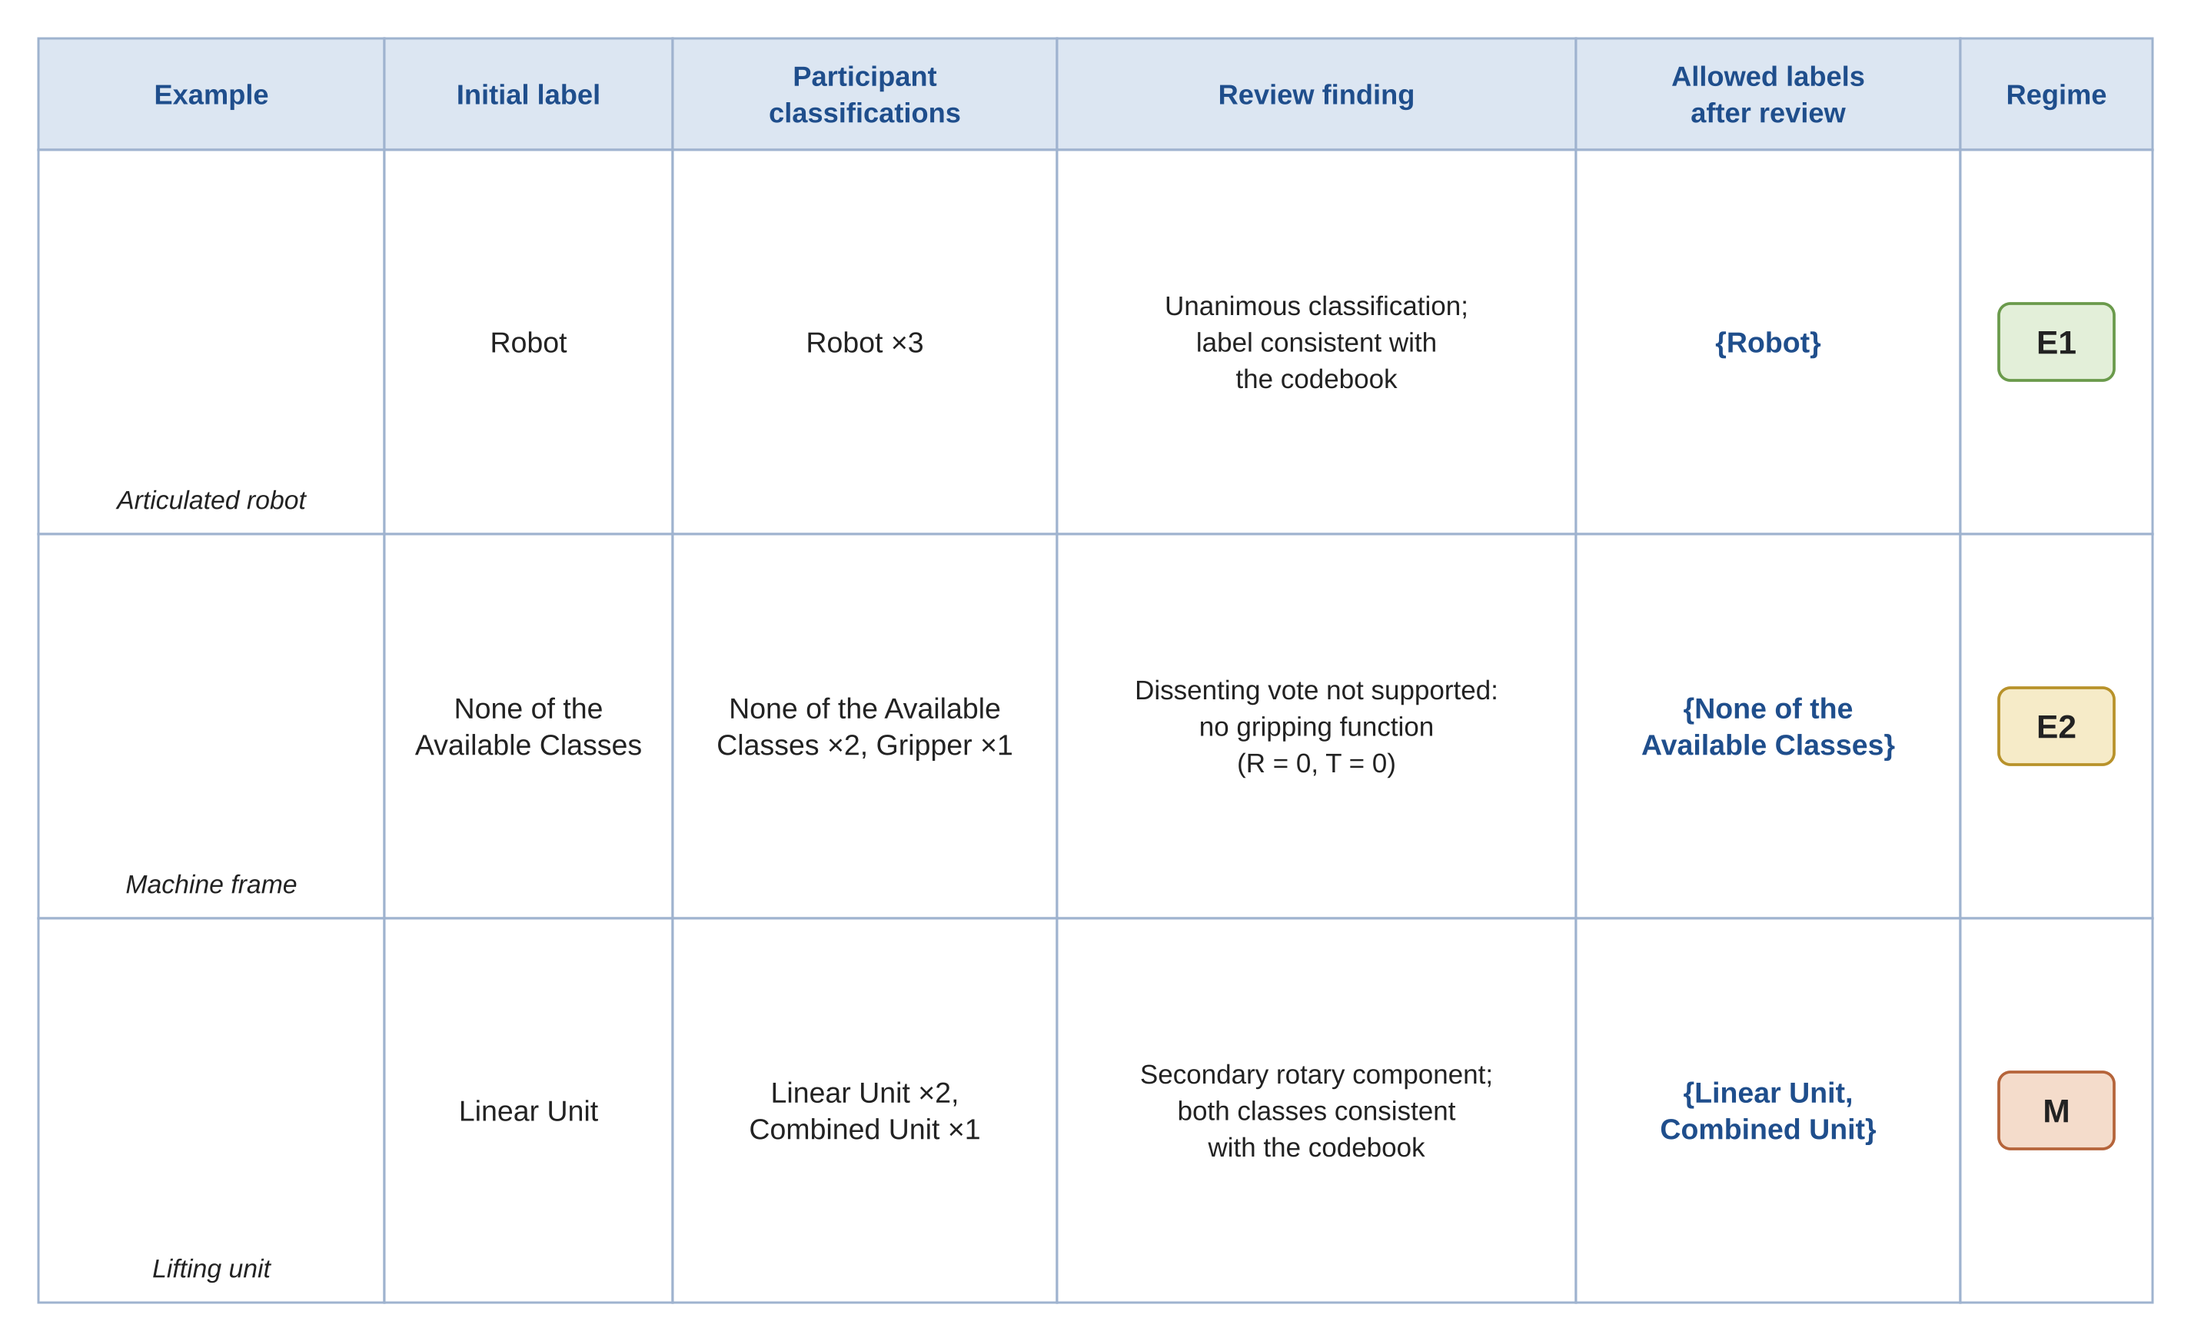
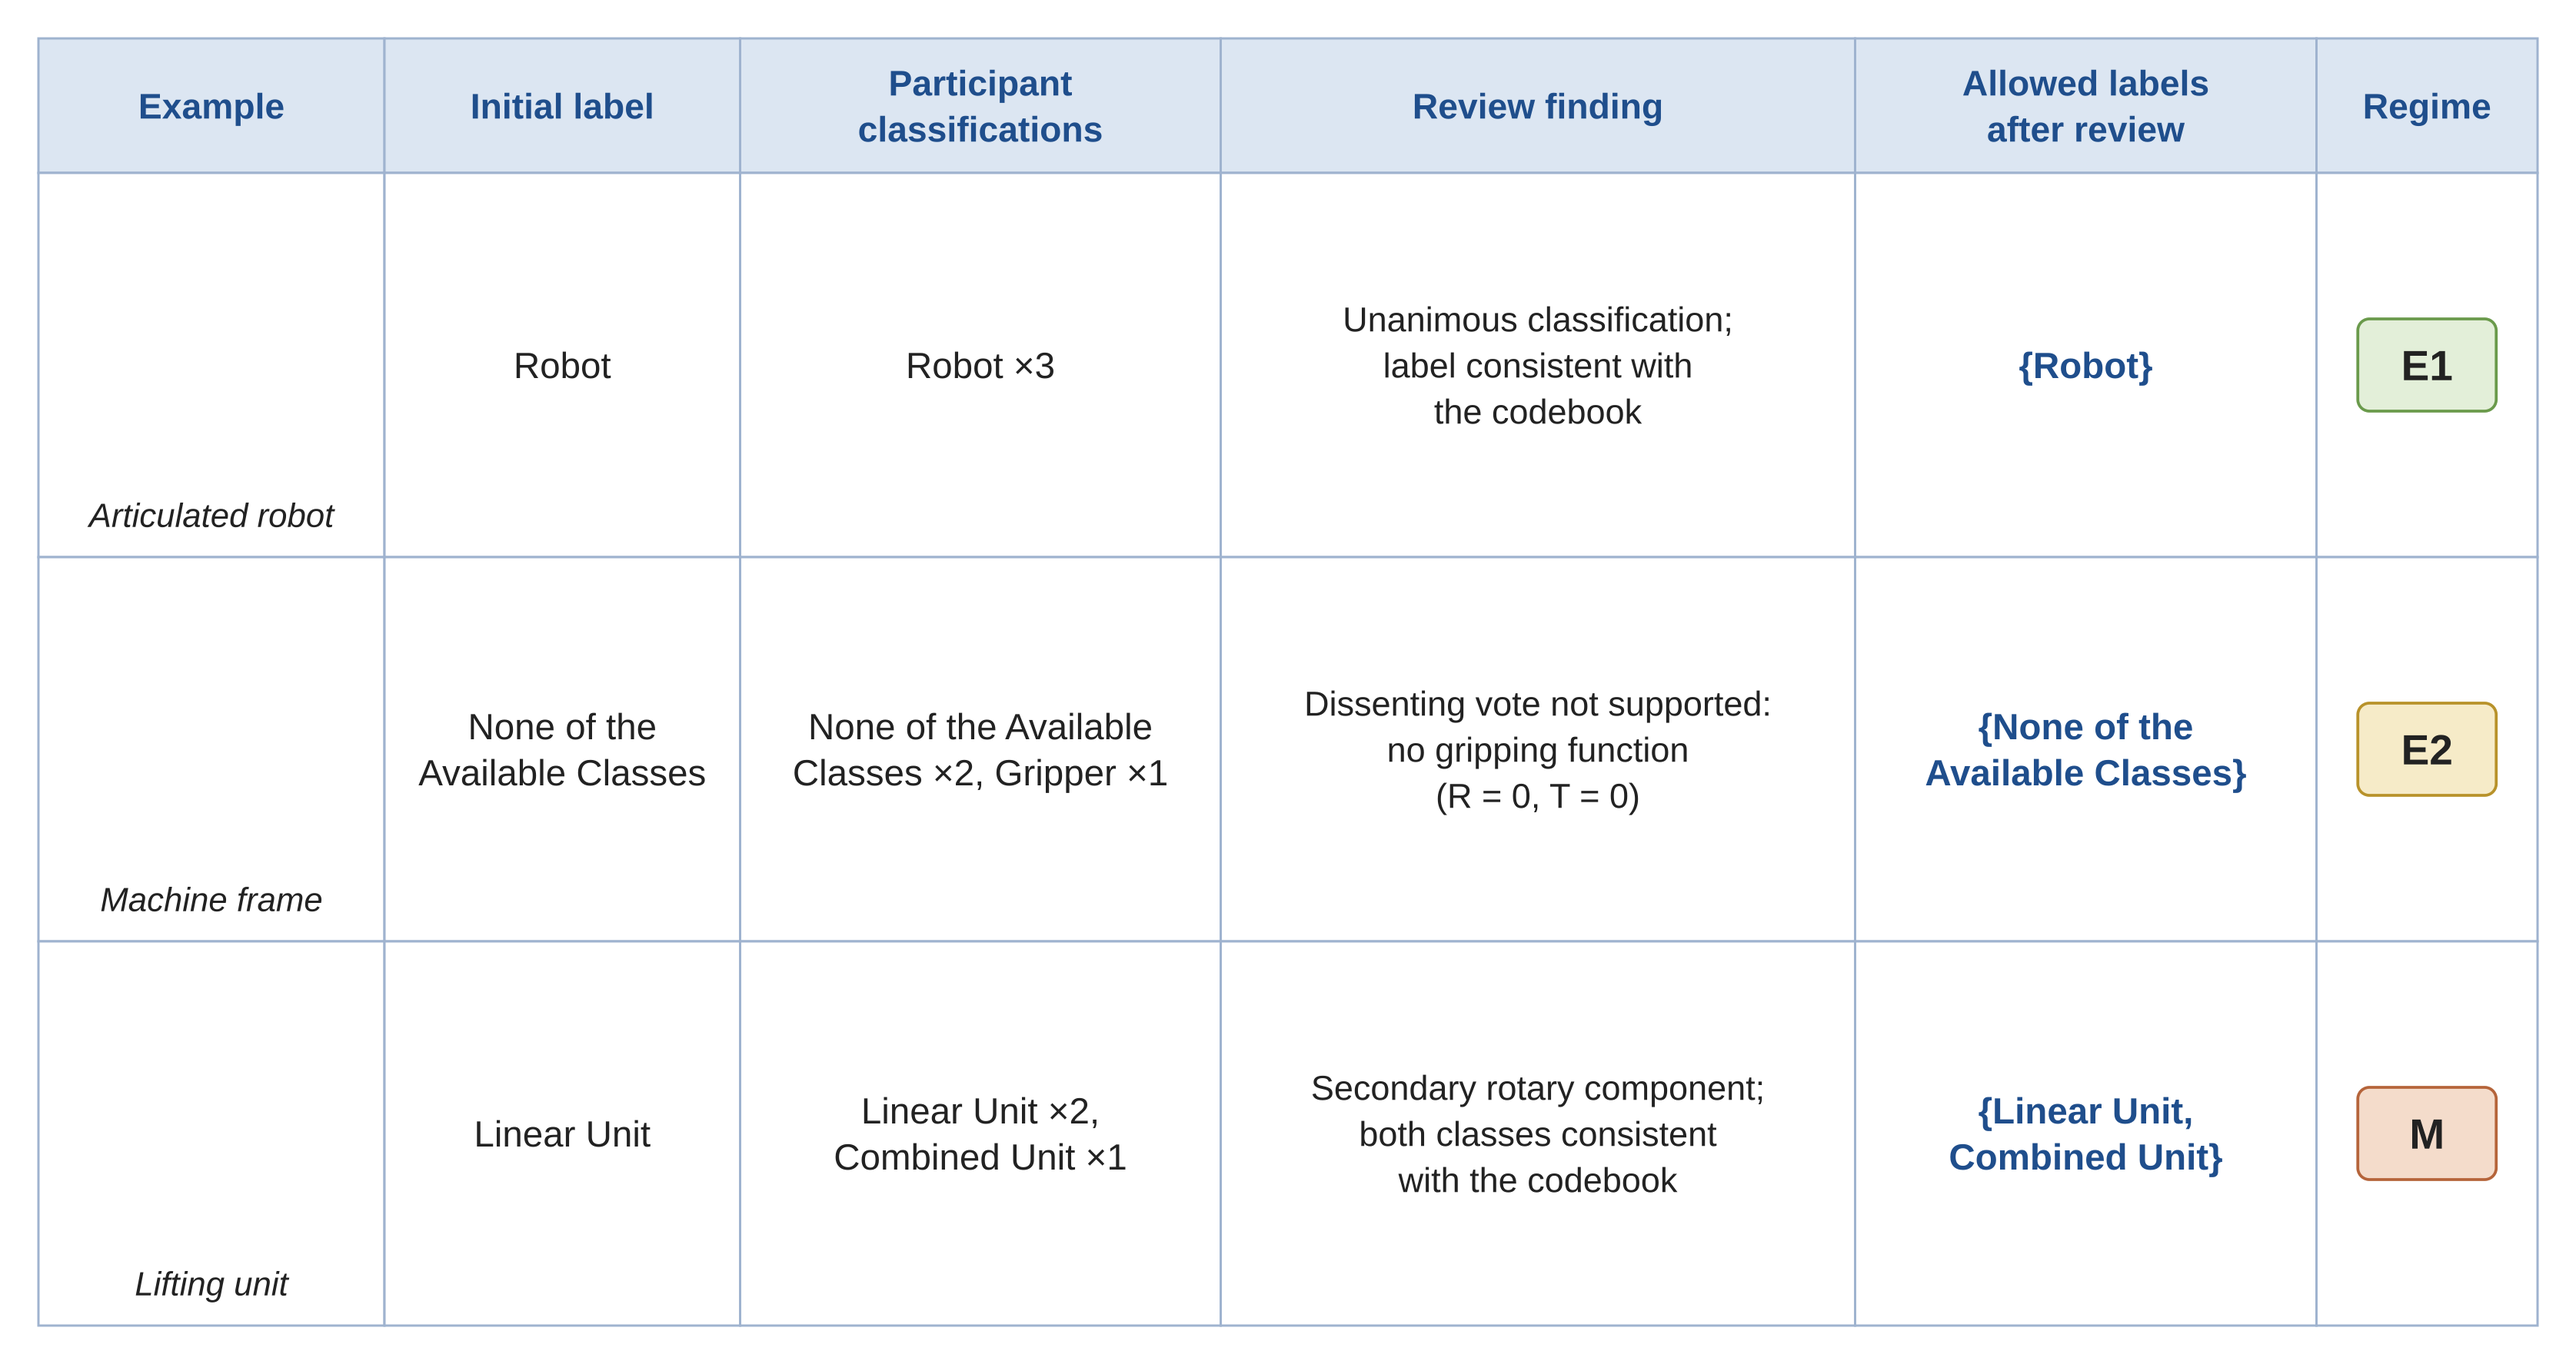
Enlarge fonts in Figure 4.4
Claude-Session: https://claude.ai/code/session_015KCPe11SxvEX6a18zciCVc

diff --git a/thesis/figures/make_fig_4_4.py b/thesis/figures/make_fig_4_4.py
@@ -8,8 +8,8 @@ FONT = "Liberation Sans"
 DARK = "#1F4E8C"; LINE = "#9FB3CF"; HEAD_BG = "#DCE6F2"
 TXT = "#222222"; MUTED = "#666666"
 
-cols = [("Example", 180), ("Initial label", 150), ("Participant\nclassifications", 200),
-        ("Review finding", 270), ("Allowed labels\nafter review", 200), ("Regime", 100)]
+cols = [("Example", 180), ("Initial label", 185), ("Participant\nclassifications", 250),
+        ("Review finding", 330), ("Allowed labels\nafter review", 240), ("Regime", 115)]
 
 # regime: (label, fill, stroke)
 REG = {"E1": ("#E3EFD9", "#6A9A4B"), "E2": ("#F6EBC8", "#B8922A"), "M": ("#F4DCCB", "#B5643A")}
@@ -35,14 +35,14 @@ rows = [
      "regime": "M"},
 ]
 
-X0 = 20; Y0 = 20; HEAD_H = 58; ROW_H = 200; LH = 19
+X0 = 20; Y0 = 20; HEAD_H = 70; ROW_H = 200; LH = 24
 out = []
 
 def rect(x, y, w, h, fill, stroke=LINE, sw=1.2, rx=0):
     out.append(f'<rect x="{x}" y="{y}" width="{w}" height="{h}" rx="{rx}" fill="{fill}" '
                f'stroke="{stroke}" stroke-width="{sw}"/>')
 
-def lines(cx, cy, ls, size=15, weight="normal", color=TXT, style="normal"):
+def lines(cx, cy, ls, size=19, weight="normal", color=TXT, style="normal"):
     """Draw lines centred horizontally at cx and vertically around cy."""
     n = len(ls)
     for i, s in enumerate(ls):
@@ -55,7 +55,7 @@ def lines(cx, cy, ls, size=15, weight="normal", color=TXT, style="normal"):
 x = X0
 for name, w in cols:
     rect(x, Y0, w, HEAD_H, HEAD_BG)
-    lines(x + w / 2, Y0 + HEAD_H / 2, name.split("\n"), 14.5, "bold", DARK)
+    lines(x + w / 2, Y0 + HEAD_H / 2, name.split("\n"), 18.5, "bold", DARK)
     x += w
 width = x + X0
 
@@ -68,19 +68,19 @@ for r, row in enumerate(rows):
         rect(x, y, w, ROW_H, "white")
         cx = x + w / 2
         if ci == 0:  # blank space for a portrait image, name at the bottom
-            lines(cx, y + ROW_H - 18, [row["name"]], 13.5, color=TXT, style="italic")
+            lines(cx, y + ROW_H - 22, [row["name"]], 17.5, color=TXT, style="italic")
         elif ci == 1:
             lines(cx, cy, row["initial"])
         elif ci == 2:
             lines(cx, cy, row["votes"])
         elif ci == 3:
-            lines(cx, cy, row["finding"], 14)
+            lines(cx, cy, row["finding"], 18)
         elif ci == 4:
-            lines(cx, cy, row["allowed"], 15, "bold", DARK)
+            lines(cx, cy, row["allowed"], 19, "bold", DARK)
         else:
             fill, stroke = REG[row["regime"]]
-            rect(cx - 30, cy - 20, 60, 40, fill, stroke, 1.5, rx=6)
-            lines(cx, cy, [row["regime"]], 17, "bold", TXT)
+            rect(cx - 36, cy - 24, 72, 48, fill, stroke, 1.5, rx=6)
+            lines(cx, cy, [row["regime"]], 22, "bold", TXT)
         x += w
 
 height = Y0 + HEAD_H + len(rows) * ROW_H + X0
